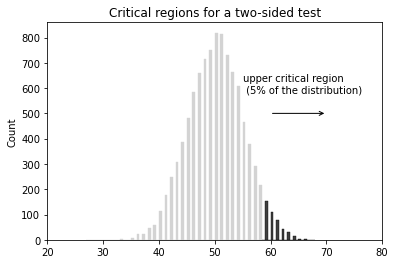
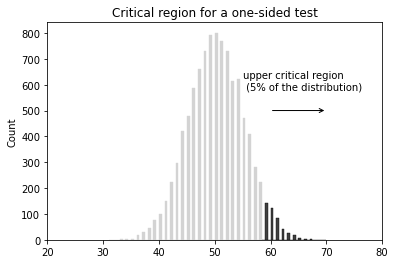
Update documentation

diff --git a/04.04-hypothesis-testing.html b/04.04-hypothesis-testing.html
@@ -716,7 +716,7 @@ H_1 : &amp; \theta &gt; .5
 
 <span class="c1"># plot distribution and color critical region</span>
 <span class="n">ax</span> <span class="o">=</span> <span class="n">sns</span><span class="o">.</span><span class="n">histplot</span><span class="p">(</span><span class="n">data</span><span class="p">,</span> <span class="n">bins</span><span class="o">=</span><span class="mi">20</span><span class="p">,</span><span class="n">binwidth</span><span class="o">=.</span><span class="mi">5</span><span class="p">,</span> <span class="n">color</span><span class="o">=</span><span class="s2">&quot;black&quot;</span><span class="p">)</span>
-<span class="n">ax</span><span class="o">.</span><span class="n">set_title</span><span class="p">(</span><span class="s2">&quot;Critical regions for a two-sided test&quot;</span><span class="p">)</span>
+<span class="n">ax</span><span class="o">.</span><span class="n">set_title</span><span class="p">(</span><span class="s2">&quot;Critical region for a one-sided test&quot;</span><span class="p">)</span>
 
 <span class="c1">#ax.annotate(&quot;&quot;, xy=(40, 500), xytext=(30, 500), arrowprops=dict(arrowstyle=&quot;&lt;-&quot;))</span>
 <span class="c1">#ax.annotate(&quot;lower critical region \n (2.5% of the distribution)&quot;, xy=(40, 600), xytext=(22, 580))</span>
@@ -739,7 +739,7 @@ H_1 : &amp; \theta &gt; .5
 </div>
 <div class="figure align-default" id="fig-esp-critical-onesided" style="width: 600px">
 <div class="cell_output docutils container">
-<div class="output text_plain highlight-myst-ansi notranslate"><div class="highlight"><pre><span></span>&lt;AxesSubplot:title={&#39;center&#39;:&#39;Critical regions for a two-sided test&#39;}, ylabel=&#39;Count&#39;&gt;
+<div class="output text_plain highlight-myst-ansi notranslate"><div class="highlight"><pre><span></span>&lt;AxesSubplot:title={&#39;center&#39;:&#39;Critical region for a one-sided test&#39;}, ylabel=&#39;Count&#39;&gt;
 </pre></div>
 </div>
 </div>
@@ -859,6 +859,39 @@ H_1 : &amp; \theta &gt; .5
 <div class="section" id="effect-size-sample-size-and-power">
 <span id="effectsize"></span><h2><span class="section-number">4.8. </span>Effect size, sample size and power<a class="headerlink" href="#effect-size-sample-size-and-power" title="Permalink to this headline">¶</a></h2>
 <p>In previous sections I’ve emphasised the fact that the major design principle behind statistical hypothesis testing is that we try to control our Type I error rate. When we fix <span class="math notranslate nohighlight">\(\alpha = .05\)</span> we are attempting to ensure that only 5% of true null hypotheses are incorrectly rejected. However, this doesn’t mean that we don’t care about Type II errors. In fact, from the researcher’s perspective, the error of failing to reject the null when it is actually false is an extremely annoying one. With that in mind, a secondary goal of hypothesis testing is to try to minimise <span class="math notranslate nohighlight">\(\beta\)</span>, the Type II error rate, although we don’t usually <em>talk</em> in terms of minimising Type II errors. Instead, we talk about maximising the <em>power</em> of the test. Since power is defined as <span class="math notranslate nohighlight">\(1-\beta\)</span>, this is the same thing.</p>
+<div class="cell docutils container">
+<div class="cell_input docutils container">
+<div class="highlight-ipython3 notranslate"><div class="highlight"><pre><span></span><span class="kn">from</span> <span class="nn">myst_nb</span> <span class="kn">import</span> <span class="n">glue</span>
+<span class="kn">from</span> <span class="nn">numpy</span> <span class="kn">import</span> <span class="n">random</span>
+<span class="kn">import</span> <span class="nn">matplotlib.pyplot</span> <span class="k">as</span> <span class="nn">plt</span>
+<span class="kn">import</span> <span class="nn">seaborn</span> <span class="k">as</span> <span class="nn">sns</span>
+
+<span class="c1"># sample from a binomial distribution</span>
+<span class="n">data</span> <span class="o">=</span> <span class="n">random</span><span class="o">.</span><span class="n">binomial</span><span class="p">(</span><span class="n">n</span><span class="o">=</span><span class="mi">100</span><span class="p">,</span> <span class="n">p</span><span class="o">=.</span><span class="mi">55</span><span class="p">,</span> <span class="n">size</span><span class="o">=</span><span class="mi">10000</span><span class="p">)</span>
+
+<span class="c1"># plot distribution and color critical region</span>
+<span class="n">ax</span> <span class="o">=</span> <span class="n">sns</span><span class="o">.</span><span class="n">histplot</span><span class="p">(</span><span class="n">data</span><span class="p">,</span> <span class="n">bins</span><span class="o">=</span><span class="mi">20</span><span class="p">,</span><span class="n">binwidth</span><span class="o">=.</span><span class="mi">5</span><span class="p">,</span> <span class="n">color</span><span class="o">=</span><span class="s2">&quot;black&quot;</span><span class="p">)</span>
+<span class="n">ax</span><span class="o">.</span><span class="n">set_title</span><span class="p">(</span><span class="s2">&quot;Sampling distribution for X if $</span><span class="se">\t</span><span class="s2">heta = 0.55$&quot;</span><span class="p">)</span>
+<span class="n">ax</span><span class="o">.</span><span class="n">annotate</span><span class="p">(</span><span class="s2">&quot;&quot;</span><span class="p">,</span> <span class="n">xy</span><span class="o">=</span><span class="p">(</span><span class="mi">40</span><span class="p">,</span> <span class="mi">500</span><span class="p">),</span> <span class="n">xytext</span><span class="o">=</span><span class="p">(</span><span class="mi">30</span><span class="p">,</span> <span class="mi">500</span><span class="p">),</span> <span class="n">arrowprops</span><span class="o">=</span><span class="nb">dict</span><span class="p">(</span><span class="n">arrowstyle</span><span class="o">=</span><span class="s2">&quot;&lt;-&quot;</span><span class="p">))</span>
+<span class="n">ax</span><span class="o">.</span><span class="n">annotate</span><span class="p">(</span><span class="s2">&quot;lower critical region </span><span class="se">\n</span><span class="s2"> (2.5</span><span class="si">% o</span><span class="s2">f the distribution)&quot;</span><span class="p">,</span> <span class="n">xy</span><span class="o">=</span><span class="p">(</span><span class="mi">40</span><span class="p">,</span> <span class="mi">600</span><span class="p">),</span> <span class="n">xytext</span><span class="o">=</span><span class="p">(</span><span class="mi">22</span><span class="p">,</span> <span class="mi">580</span><span class="p">))</span>
+<span class="n">ax</span><span class="o">.</span><span class="n">annotate</span><span class="p">(</span><span class="s2">&quot;&quot;</span><span class="p">,</span> <span class="n">xy</span><span class="o">=</span><span class="p">(</span><span class="mi">70</span><span class="p">,</span> <span class="mi">500</span><span class="p">),</span> <span class="n">xytext</span><span class="o">=</span><span class="p">(</span><span class="mi">60</span><span class="p">,</span> <span class="mi">500</span><span class="p">),</span> <span class="n">arrowprops</span><span class="o">=</span><span class="nb">dict</span><span class="p">(</span><span class="n">arrowstyle</span><span class="o">=</span><span class="s2">&quot;-&gt;&quot;</span><span class="p">))</span>
+<span class="n">ax</span><span class="o">.</span><span class="n">annotate</span><span class="p">(</span><span class="s2">&quot;upper critical region </span><span class="se">\n</span><span class="s2"> (2.5</span><span class="si">% o</span><span class="s2">f the distribution)&quot;</span><span class="p">,</span> <span class="n">xy</span><span class="o">=</span><span class="p">(</span><span class="mi">70</span><span class="p">,</span> <span class="mi">500</span><span class="p">),</span> <span class="n">xytext</span><span class="o">=</span><span class="p">(</span><span class="mi">55</span><span class="p">,</span> <span class="mi">580</span><span class="p">))</span>
+<span class="n">ax</span><span class="o">.</span><span class="n">set</span><span class="p">(</span><span class="n">xlim</span><span class="o">=</span><span class="p">(</span><span class="mi">20</span><span class="p">,</span><span class="mi">80</span><span class="p">))</span>
+<span class="k">for</span> <span class="n">p</span> <span class="ow">in</span> <span class="n">ax</span><span class="o">.</span><span class="n">patches</span><span class="p">:</span>
+    <span class="k">if</span> <span class="n">p</span><span class="o">.</span><span class="n">get_x</span><span class="p">()</span> <span class="o">&gt;=</span> <span class="mi">40</span><span class="p">:</span>
+        <span class="k">if</span> <span class="n">p</span><span class="o">.</span><span class="n">get_x</span><span class="p">()</span> <span class="o">&lt;=</span> <span class="mi">60</span><span class="p">:</span>
+            <span class="n">p</span><span class="o">.</span><span class="n">set_color</span><span class="p">(</span><span class="s2">&quot;lightgrey&quot;</span><span class="p">)</span>
+
+
+        
+<span class="n">glue</span><span class="p">(</span><span class="s2">&quot;espcritical-fig&quot;</span><span class="p">,</span> <span class="n">ax</span><span class="p">,</span> <span class="n">display</span><span class="o">=</span><span class="kc">False</span><span class="p">)</span>
+</pre></div>
+</div>
+</div>
+<div class="cell_output docutils container">
+<img alt="_images/04.04-hypothesis-testing_32_1.png" src="_images/04.04-hypothesis-testing_32_1.png" />
+</div>
+</div>
 <div class="section" id="the-power-function">
 <h3><span class="section-number">4.8.1. </span>The power function<a class="headerlink" href="#the-power-function" title="Permalink to this headline">¶</a></h3>
 <div class="highlight-{r notranslate"><div class="highlight"><pre><span></span>	setUpPlot()
